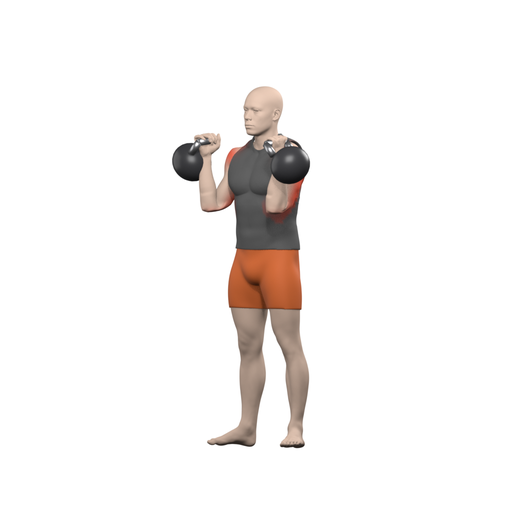
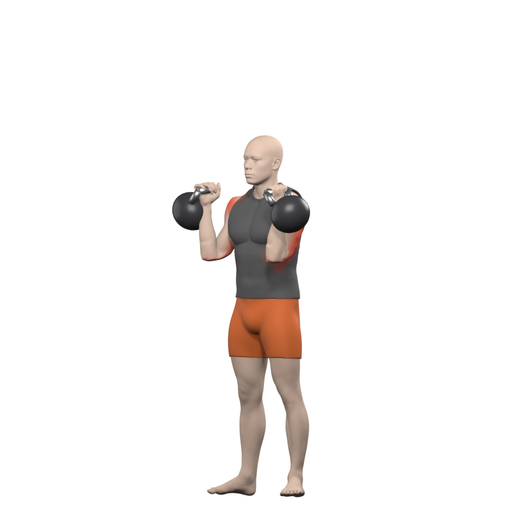
Release 0.2.0: lying triceps press added, overhead lifts reframed
Claude-Session: https://claude.ai/code/session_017y2avsBXoySjrYLoz1pCQR

Changed region(s): [[0.3125, 0.1562, 0.625, 0.9688]]

diff --git a/index.html b/index.html
@@ -4,13 +4,13 @@
 <meta charset="utf-8">
 <meta name="viewport" content="width=device-width, initial-scale=1">
 <title>GymBells exercises</title>
-<meta name="description" content="199 gym exercises with start and end illustrations, steps, equipment and muscles. Free for non-commercial use, CC BY-NC 4.0.">
+<meta name="description" content="200 gym exercises with start and end illustrations, steps, equipment and muscles. Free for non-commercial use, CC BY-NC 4.0.">
 <link rel="stylesheet" href="site.css">
 </head>
 <body>
 <header>
   <h1>GymBells exercises</h1>
-  <p>199 exercises, a start and an end picture each, with steps, equipment and muscles.
+  <p>200 exercises, a start and an end picture each, with steps, equipment and muscles.
     Free for non-commercial use with credit (<a href="LICENSE">CC BY-NC 4.0</a>).
     Made for the <a href="https://gellyfish.dev/gymbells/">GymBells</a> app.</p>
 </header>

diff --git a/README.md b/README.md
@@ -2,7 +2,7 @@
 
 **[Browse the catalogue →](https://gellyfish-ai.github.io/gymbells-exercises/)**
 
-199 gym exercises with illustrations, a start and an end picture each, plus names, other names,
+200 gym exercises with illustrations, a start and an end picture each, plus names, other names,
 steps, equipment and muscles. They are made for the [GymBells](https://gellyfish.dev/gymbells/) app and
 shared here for non-commercial use. Release 0.2.0 (2026-10-01).
 
@@ -13,7 +13,7 @@ shared here for non-commercial use. Release 0.2.0 (2026-10-01).
 <tr><td align="center"><a href="https://gellyfish-ai.github.io/gymbells-exercises/#Barbell_Hip_Thrust"><img src="images/barbell-hip-thrust/start.png" width="180" alt=""><img src="images/barbell-hip-thrust/end.png" width="180" alt=""></a><br><b>Barbell Hip Thrust</b></td><td align="center"><a href="https://gellyfish-ai.github.io/gymbells-exercises/#Seated_Cable_Rows"><img src="images/seated-cable-row/start.png" width="180" alt=""><img src="images/seated-cable-row/end.png" width="180" alt=""></a><br><b>Seated Cable Row</b></td></tr>
 </table>
 
-By equipment: Dumbbell 43, Barbell 42, Cable machine 25, Bodyweight 17, Kettlebell 10, Band 6, Smith machine 6, Lat pulldown machine 5, Flat bench 4, Dip bars 3, EZ bar 3, Leg press machine 3, Pull-up bar 3, other 29.
+By equipment: Dumbbell 43, Barbell 42, Cable machine 25, Bodyweight 17, Kettlebell 10, Band 6, Smith machine 6, Lat pulldown machine 5, EZ bar 4, Flat bench 4, Dip bars 3, Leg press machine 3, Pull-up bar 3, other 29.
 
 ## Files
 
